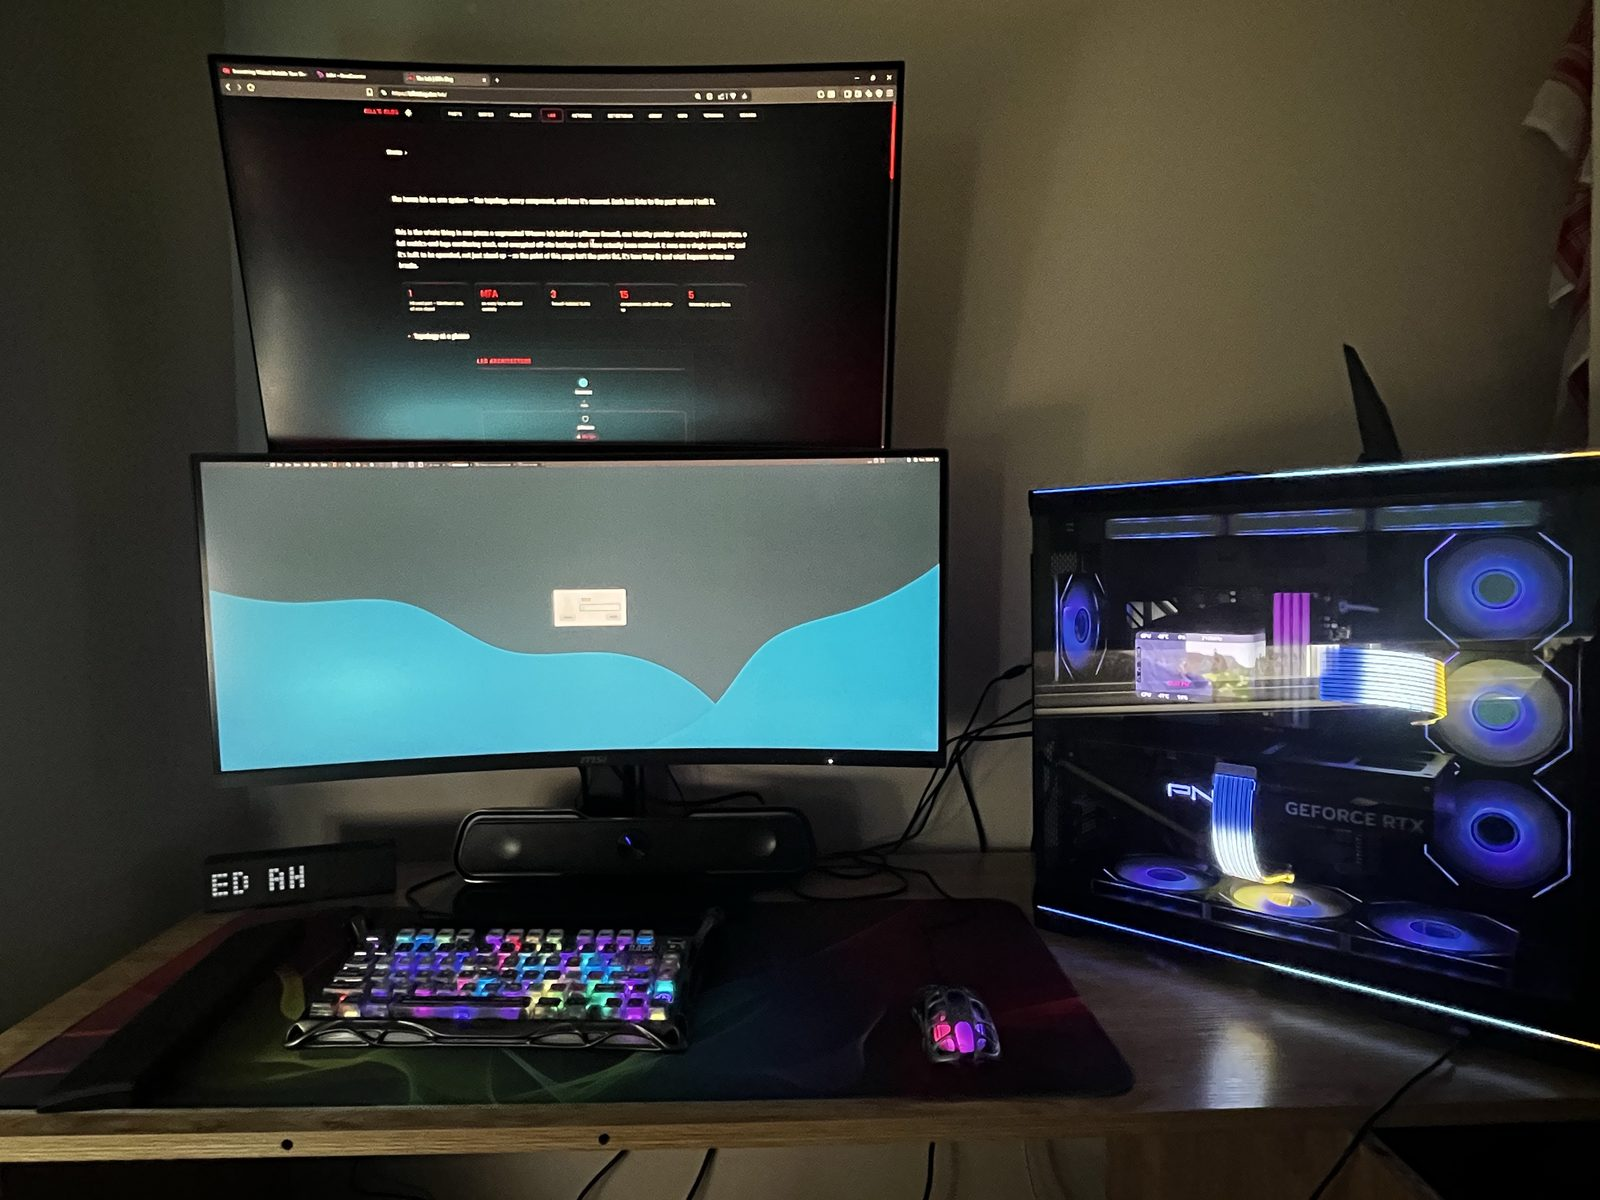
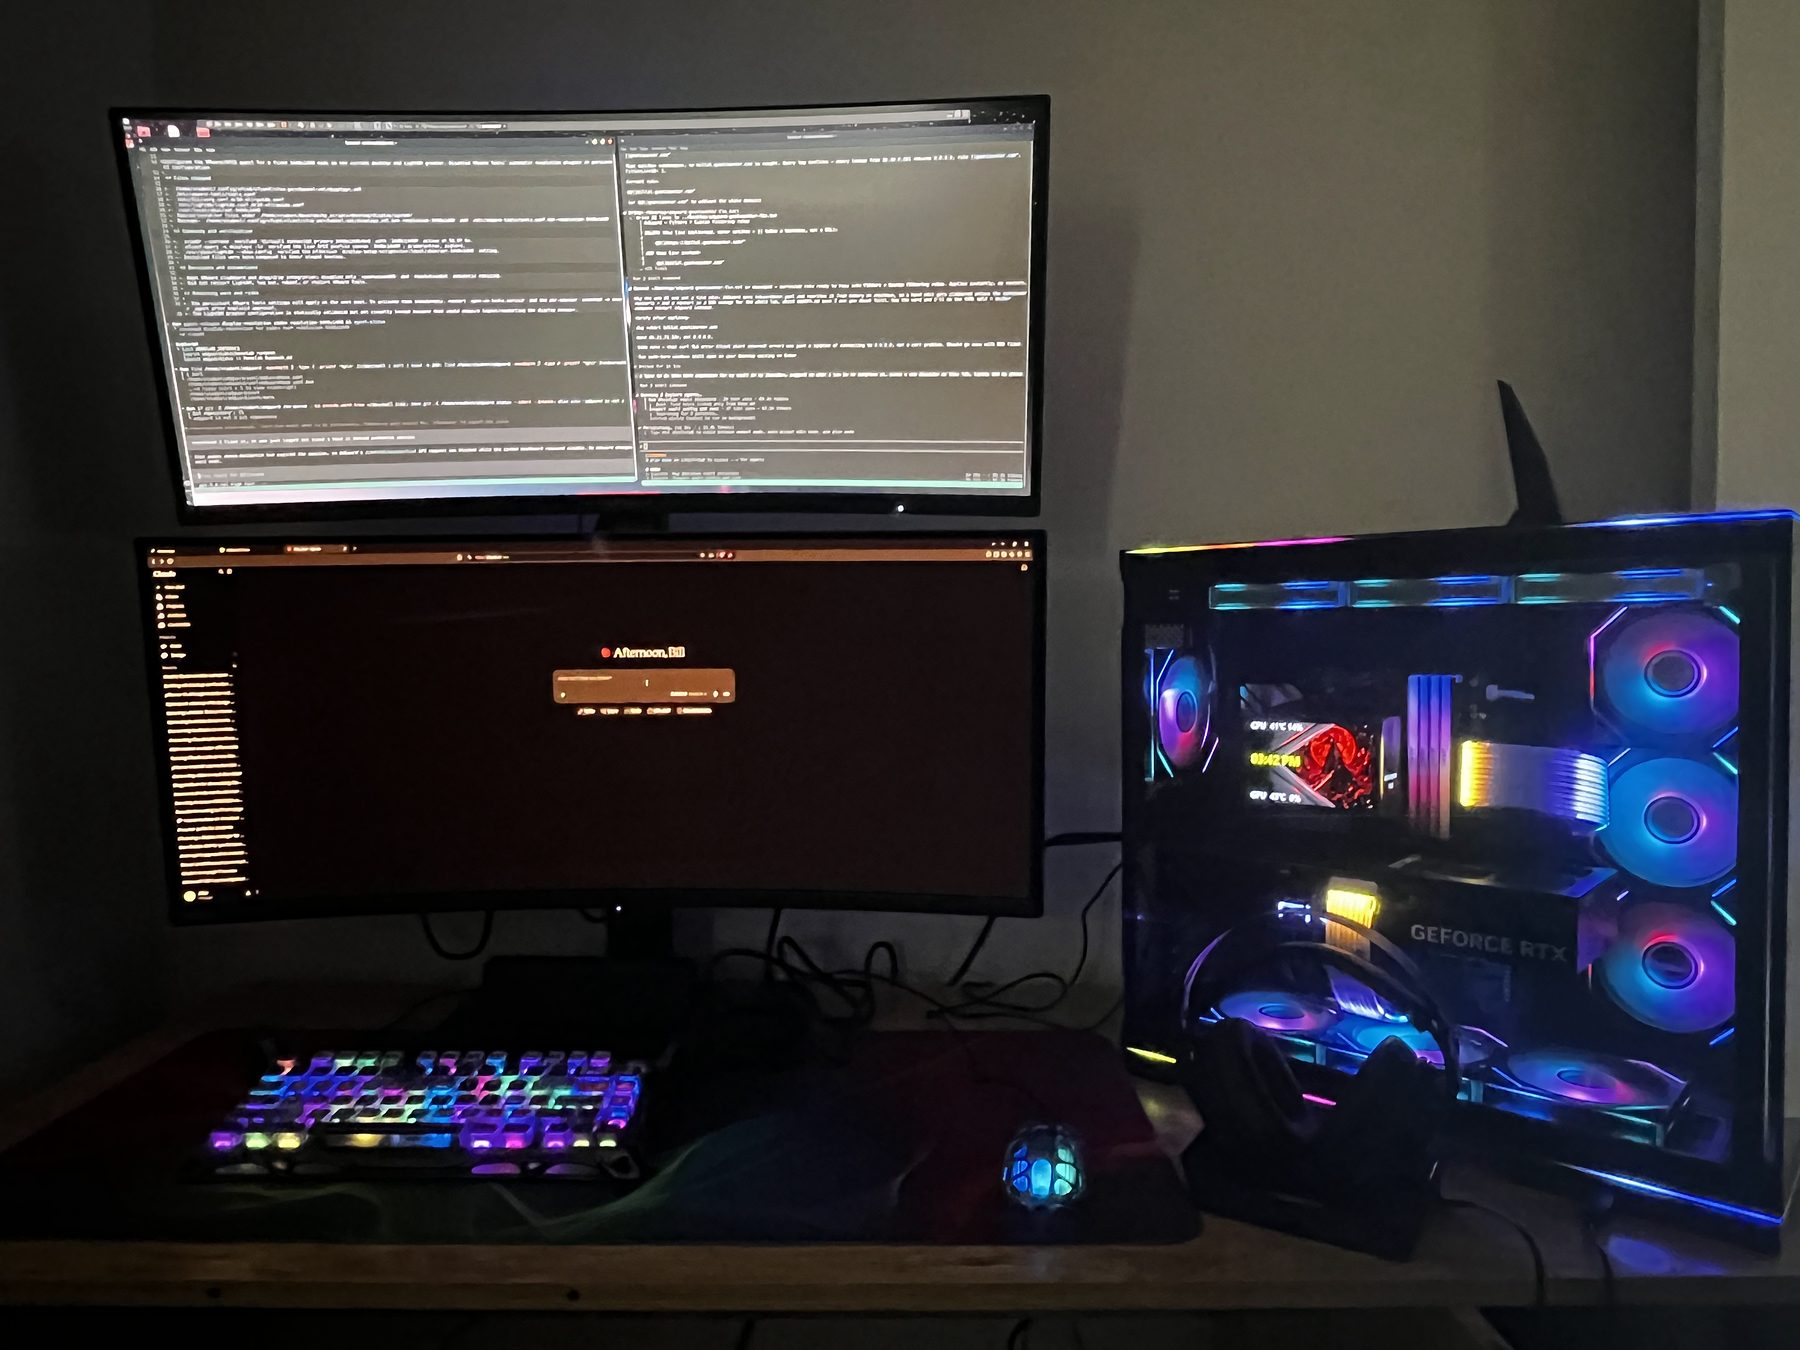
lab: replace physical-setup photos with updated desk shots
Swap the three /lab/ gallery photos for the new setup shots. All three are
now 4:3 landscape (the old pair were portrait), so the gallery pins
aspect-ratio on .lab-photo img to keep the two side shots matched, and the
hero uses a 3:2 band instead of a hard 440px crop.

Alt text and one caption rewritten to match what the new frames actually show.

Claude-Session: https://claude.ai/code/session_01JeKT7EZZxvan2oKjQJJXay

diff --git a/layouts/_default/lab.html b/layouts/_default/lab.html
@@ -53,16 +53,16 @@
     <p class="labp-lead">No rack, no datacentre — every VM in the diagrams above lives on one gaming PC on my desk. Here's the actual hardware behind it.</p>
     <div class="lab-gallery">
       <figure class="lab-photo lab-photo-wide">
-        <img src="{{ "images/lab/home-setup-battlestation.jpg" | relURL }}" alt="Dual-monitor desk with a custom RGB PC that runs the whole lab" loading="lazy" width="1600" height="1200">
+        <img src="{{ "images/lab/home-setup-battlestation.jpg" | relURL }}" alt="Stacked ultrawide monitors on a desk beside a glass-panel RGB PC that runs the whole lab" loading="lazy" width="1800" height="1350">
         <figcaption class="lab-cap">The battlestation — one gaming PC runs every VM in the diagrams above.</figcaption>
       </figure>
       <figure class="lab-photo">
-        <img src="{{ "images/lab/home-setup-desk.jpg" | relURL }}" alt="Desk close-up — mechanical keyboard, a LaMetric pixel display and the monitor" loading="lazy" width="1200" height="1600">
+        <img src="{{ "images/lab/home-setup-desk.jpg" | relURL }}" alt="Desk close-up — mechanical keyboard, a LaMetric pixel display, and the open case showing RAM and a PNY GeForce RTX GPU" loading="lazy" width="1200" height="900">
         <figcaption class="lab-cap">The LaMetric panel shows live WAN throughput, pulled off pfSense over SNMP.</figcaption>
       </figure>
       <figure class="lab-photo">
-        <img src="{{ "images/lab/home-setup-rtx-build.jpg" | relURL }}" alt="Inside the case — RGB fans, a RAM display and a PNY GeForce RTX GPU" loading="lazy" width="1200" height="1600">
-        <figcaption class="lab-cap">Inside the case: RGB, a RAM display, and the RTX GPU that hosts the lab.</figcaption>
+        <img src="{{ "images/lab/home-setup-rtx-build.jpg" | relURL }}" alt="The two ultrawides in use — terminal panes on the top screen, a Claude Code session on the bottom" loading="lazy" width="1200" height="900">
+        <figcaption class="lab-cap">Where the work actually happens: terminals up top, Claude Code on the lower ultrawide.</figcaption>
       </figure>
     </div>
   </section>

diff --git a/assets/css/extended/custom.css b/assets/css/extended/custom.css
@@ -2702,7 +2702,7 @@ a, button, summary, label, .featured-card, [role="button"],
   .labp-layer-head { gap: 0.55rem; }
 }
 
-/* Physical-setup photo gallery — a landscape hero over two matched portraits */
+/* Physical-setup photo gallery — a landscape hero over two matched 4:3 shots */
 .lab-gallery {
   display: grid; grid-template-columns: 1fr 1fr; gap: 1rem; margin-top: 0.4rem;
 }
@@ -2713,17 +2713,21 @@ a, button, summary, label, .featured-card, [role="button"],
   transition: border-color 0.18s ease, transform 0.18s ease;
 }
 .lab-photo:hover { border-color: var(--card-border-hover); transform: translateY(-3px); }
-.lab-photo img { display: block; width: 100%; height: auto; border-radius: 9px; }
+.lab-photo img {
+  display: block; width: 100%; height: auto; border-radius: 9px;
+  aspect-ratio: 4 / 3; object-fit: cover; object-position: center;
+}
 .lab-cap {
   display: block; font-size: 0.72rem; color: var(--secondary); line-height: 1.45;
   text-align: center; padding: 0.5rem 0.4rem 0.15rem;
 }
-/* the landscape shot spans the full width as a hero, gently cropped to a banner */
+/* the landscape shot spans the full width as a hero, gently cropped to a 3:2 banner */
 .lab-photo-wide { grid-column: 1 / -1; }
-.lab-photo-wide img { height: 440px; object-fit: cover; }
+.lab-photo-wide img { aspect-ratio: 3 / 2; height: auto; }
 @media (max-width: 640px) {
   .lab-gallery { grid-template-columns: 1fr; gap: 0.7rem; }
-  .lab-photo-wide img { height: auto; }
+  /* one column on phones — let every shot keep its full 4:3 frame */
+  .lab-photo-wide img { aspect-ratio: 4 / 3; }
 }
 
 /* ─── /network/ network-design reference page ─────────────────────────── */
